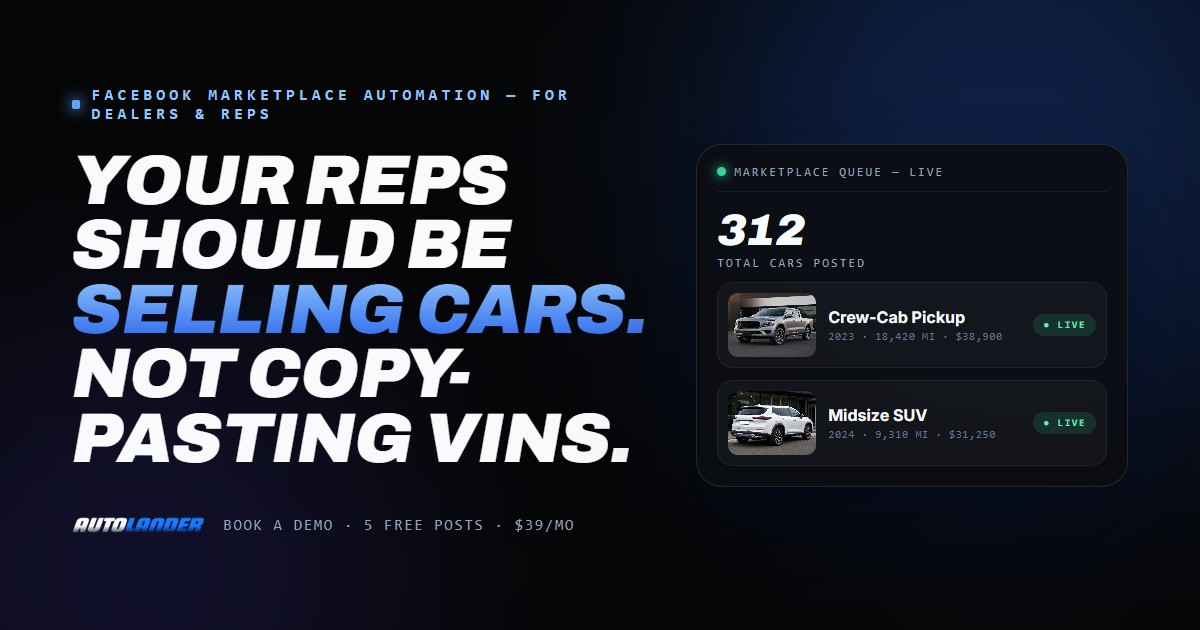
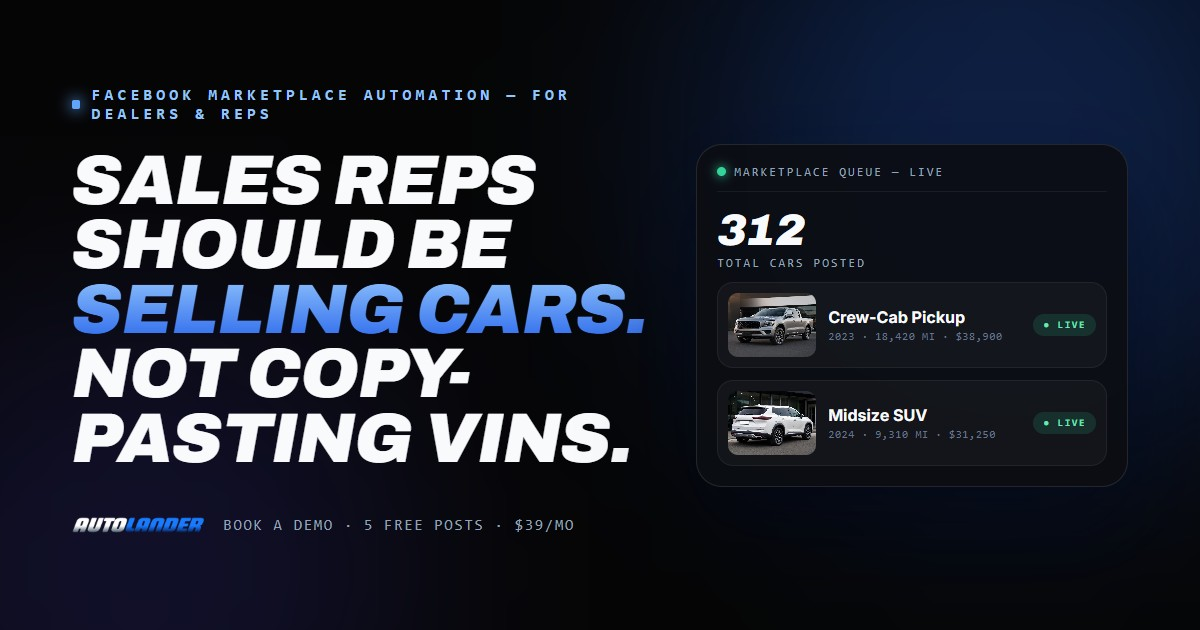
feat: headline to 'Sales reps' (speaks to reps + managers); email links copy-on-click to fix desktop mailto dead-end; refreshed share card

Changed region(s): [[0.0617, 0.2413, 0.4625, 0.3317]]

diff --git a/index.html b/index.html
@@ -19,7 +19,7 @@
     <meta property="og:type" content="website" />
     <meta property="og:url" content="https://autolander.ai/" />
     <meta property="og:site_name" content="AutoLander" />
-    <meta property="og:title" content="AutoLander — Your reps should be selling cars, not copy-pasting VINs" />
+    <meta property="og:title" content="AutoLander — Sales reps should be selling cars, not copy-pasting VINs" />
     <meta property="og:description" content="Auto-post, update, and track your entire dealership inventory on Facebook Marketplace. 20 cars in minutes, not hours — more buyer conversations, zero manual work." />
     <meta property="og:image" content="https://autolander.ai/og-image.jpg" />
     <meta property="og:image:secure_url" content="https://autolander.ai/og-image.jpg" />
@@ -30,7 +30,7 @@
 
     <!-- Twitter Card -->
     <meta name="twitter:card" content="summary_large_image" />
-    <meta name="twitter:title" content="AutoLander — Your reps should be selling cars, not copy-pasting VINs" />
+    <meta name="twitter:title" content="AutoLander — Sales reps should be selling cars, not copy-pasting VINs" />
     <meta name="twitter:description" content="Auto-post, update, and track your entire dealership inventory on Facebook Marketplace. 20 cars in minutes, not hours — more buyer conversations, zero manual work." />
     <meta name="twitter:image" content="https://autolander.ai/og-image.jpg" />
     <meta name="twitter:image:alt" content="AutoLander helps car dealers automatically post inventory to Facebook Marketplace." />

diff --git a/src/App.jsx b/src/App.jsx
@@ -9,7 +9,7 @@ import TrustStrip from './sections/TrustStrip.jsx';
 import ExecutionGap from './sections/ExecutionGap.jsx';
 import Audience from './sections/Audience.jsx';
 import MobileCtaBar from './sections/MobileCtaBar.jsx';
-import { Eyebrow, SectionHeading } from './sections/_ui.jsx';
+import { Eyebrow, SectionHeading, MailLink } from './sections/_ui.jsx';
 import { 
   ArrowRight, Bot, RefreshCw, Facebook, CheckCircle2, 
   Activity, Calendar, Brain,
@@ -1159,8 +1159,8 @@ export default function App() {
             <div className="flex gap-8 text-[10px] font-black text-slate-500 uppercase tracking-widest">
               <a href="/privacy.html" className="hover:text-blue-500 transition-colors">Privacy</a>
               <a href="/terms.html" className="hover:text-blue-500 transition-colors">Terms</a>
-              <a href="mailto:sales@autolander.ai" className="hover:text-blue-500 transition-colors">Contact</a>
-              <a href="mailto:sales@autolander.ai" className="hover:text-blue-500 transition-colors">Support</a>
+              <MailLink className="hover:text-blue-500 transition-colors">Contact</MailLink>
+              <MailLink className="hover:text-blue-500 transition-colors">Support</MailLink>
             </div>
 
             <p className="text-[10px] font-black text-slate-700 uppercase tracking-widest">© 2026 AutoLander. All rights reserved.</p>

diff --git a/src/sections/_ui.jsx b/src/sections/_ui.jsx
@@ -93,3 +93,32 @@ export const Stat = ({ value, prefix = '', suffix = '', label, className = '', v
     </div>
   );
 };
+
+// Email/support link that works on every device. The mailto still fires for
+// users who have a mail client (phones, Outlook, etc.); on desktops with no
+// mail handler — where mailto silently does nothing — it copies the address and
+// shows a confirmation so the link is never a dead end.
+export const MailLink = ({ email = 'sales@autolander.ai', children, className = '' }) => {
+  const [copied, setCopied] = useState(false);
+  const handleClick = () => {
+    try {
+      navigator.clipboard?.writeText(email);
+    } catch {
+      /* clipboard may be unavailable; the mailto still attempts to open */
+    }
+    setCopied(true);
+    setTimeout(() => setCopied(false), 2200);
+  };
+  return (
+    <span className="relative inline-block">
+      <a href={`mailto:${email}`} onClick={handleClick} className={className}>
+        {children}
+      </a>
+      {copied && (
+        <span className="absolute bottom-full left-1/2 z-50 mb-2 -translate-x-1/2 whitespace-nowrap rounded-lg bg-blue-600 px-3 py-1.5 text-[10px] font-bold normal-case tracking-normal text-white shadow-lg shadow-blue-600/30">
+          Copied {email}
+        </span>
+      )}
+    </span>
+  );
+};

diff --git a/public/thank-you.html b/public/thank-you.html
@@ -386,8 +386,9 @@
 
         <div class="cta-row">
           <a class="cta" href="/">Back to AutoLander</a>
-          <a class="cta secondary" href="mailto:sales@autolander.ai">Email Support</a>
+          <a class="cta secondary" href="mailto:sales@autolander.ai" onclick="(function(){try{navigator.clipboard&&navigator.clipboard.writeText('sales@autolander.ai')}catch(e){}var t=document.getElementById('mailToast');if(t){t.style.opacity='1';clearTimeout(window.__mt);window.__mt=setTimeout(function(){t.style.opacity='0'},2400);}})()">Email Support</a>
         </div>
+        <div id="mailToast" style="opacity:0;transition:opacity .2s ease;margin-top:1rem;font-size:.75rem;font-weight:700;letter-spacing:.04em;color:#93c5fd;">Copied sales@autolander.ai — paste it into your email app</div>
       </div>
     </main>
 

diff --git a/src/sections/Hero.jsx b/src/sections/Hero.jsx
@@ -152,7 +152,7 @@ export default function Hero({ openDemoBooking }) {
 
         <FadeIn delay={0.08}>
           <h1 className="mt-6 font-display text-5xl font-extrabold uppercase italic leading-[0.9] tracking-[-0.01em] text-white sm:text-6xl lg:text-7xl">
-            Your reps should be{' '}
+            Sales reps should be{' '}
             <span className="bg-gradient-to-b from-blue-300 to-blue-600 bg-clip-text text-transparent">selling cars.</span>{' '}
             Not copy-pasting VINs.
           </h1>
